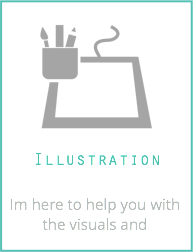
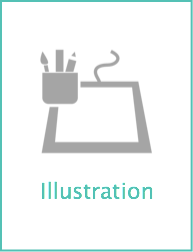
Skills

diff --git a/css/index.css b/css/index.css
@@ -31,6 +31,48 @@ text-decoration: underline;
 
 }
 
+
+#Group1 {
+  background: url("../images/Group1.png"); background-repeat: no-repeat;
+  width: 194px;
+  height: 251px;
+}
+
+#Group1:hover {
+  background: url("../images/Group1b.png"); background-repeat: no-repeat;
+}
+
+#Group2 {
+  background: url("../images/Group2.png"); background-repeat: no-repeat;
+  width: 194px;
+  height: 251px;
+}
+
+#Group2:hover {
+  background: url("../images/Group2b.png"); background-repeat: no-repeat;
+}
+
+#Group3 {
+  background: url("../images/Group3.png"); background-repeat: no-repeat;
+  width: 194px;
+  height: 251px;
+}
+
+#Group3:hover {
+  background: url("../images/Group3b.png"); background-repeat: no-repeat;
+}
+
+#Group4 {
+  background: url("../images/Group4.png"); background-repeat: no-repeat;
+  width: 194px;
+  height: 251px;
+}
+
+#Group4:hover {
+  background: url("../images/Group4b.png"); background-repeat: no-repeat;
+}
+
+
 .grid {
   overflow: hidden;
   margin: 0;

diff --git a/index.html b/index.html
@@ -32,10 +32,10 @@
 <table id="skills">
 	<tbody>
 		<tr>
-			<td><img src="images/Group1.png"></td>
-			<td><img src="images/Group2.png"></td>
-			<td><img src="images/Group3.png"></td>
-			<td><img src="images/Group4.png"></td>
+			<td id="Group1"></td>
+			<td id="Group2"></td>
+			<td id="Group3"></td>
+			<td id="Group4"></td>
 		</tr>
 	</tbody>
 </table>
